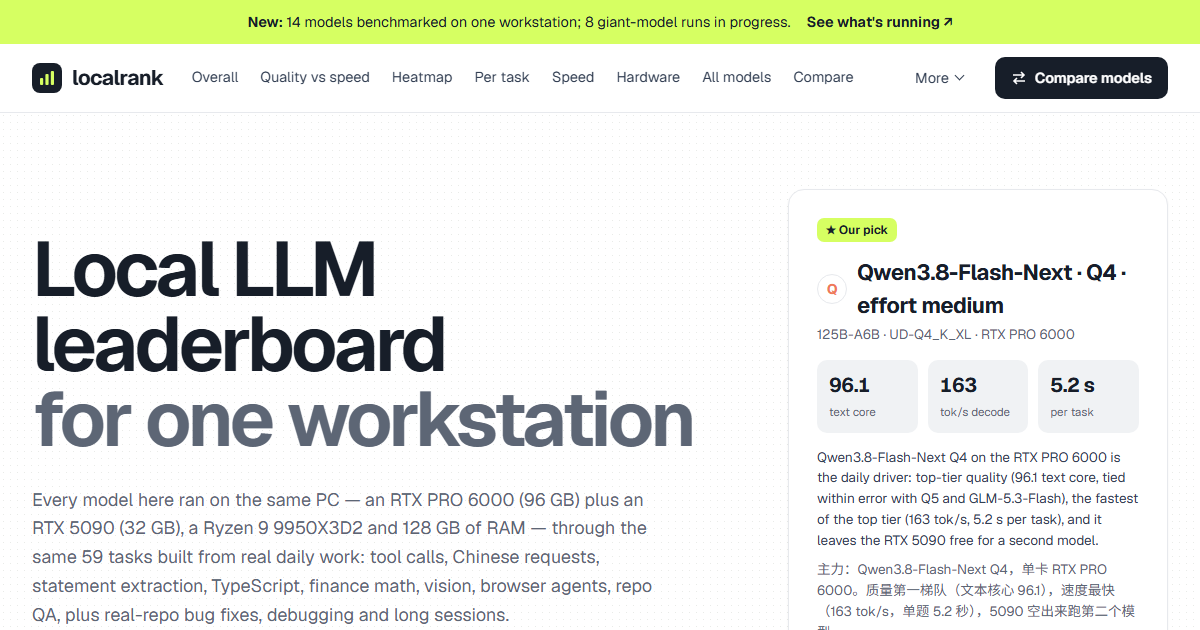
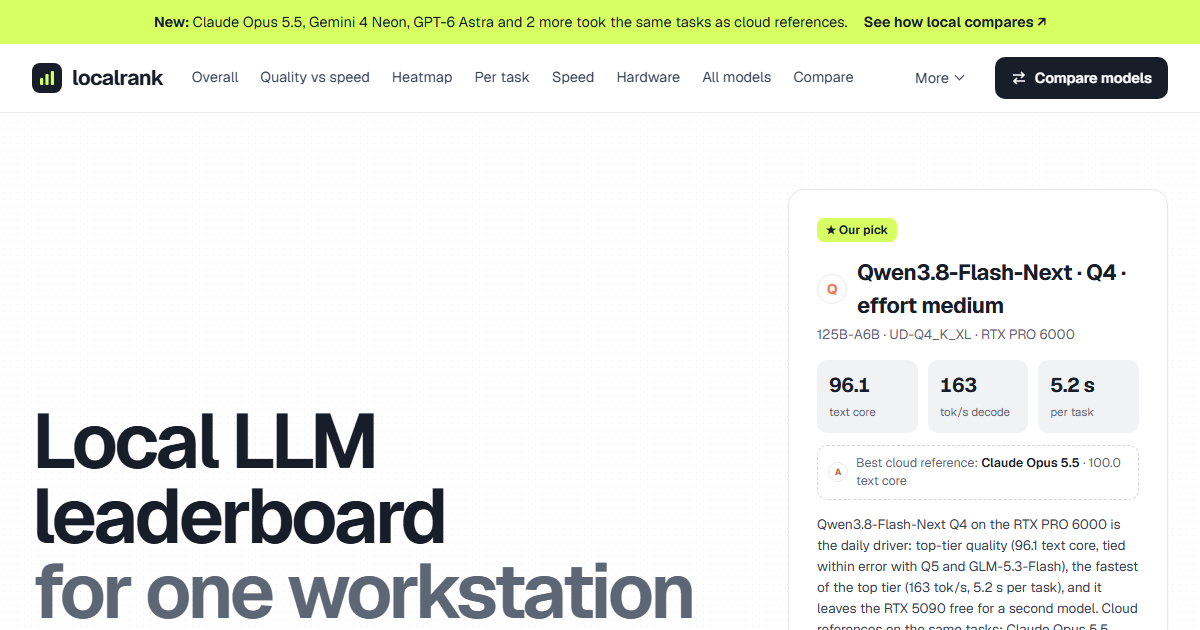
Keep chart labels readable over the cloud-reference lines
Bar value labels get white knockouts and the reference lines are lighter; the announcement and the hero name the references without their variant.

Changed region(s): [[0.0308, 0.3619, 0.5858, 0.9952], [0.6783, 0.6937, 0.9558, 1.0], [0.1233, 0.0302, 0.8633, 0.0603]]

diff --git a/src/sections/overall.css b/src/sections/overall.css
@@ -37,8 +37,9 @@
 .ov-badge.ov-badge-out circle { stroke: var(--line); }
 .ov-badge text { font-weight: 760; letter-spacing: -.04em; }
 .ov-vtext { font-weight: 620; fill: var(--ink-2); font-variant-numeric: tabular-nums;
-  paint-order: stroke; stroke: #fff; stroke-width: 3px; stroke-linejoin: round; }
+  paint-order: stroke; stroke: #fff; stroke-width: 4px; stroke-linejoin: round; }
 .ov-vtext.ov-vrec { font-weight: 700; fill: var(--ink); stroke: var(--lime); }
+.ov-knock { fill: #fff; }
 .ov-pill { fill: var(--lime); stroke: var(--lime-2); stroke-width: 1; }
 .ov-xlab { fill: var(--muted); }
 .ov-xlab.ov-xrec { fill: var(--ink); font-weight: 620; }
@@ -55,8 +56,8 @@
 .ov-hot .ov-val-ci { opacity: 0; }
 
 /* cloud reference lines (behind the bars) and their pills */
-.ov-refline { fill: none; stroke-width: 1.5; transition: stroke-width .15s ease, opacity .15s ease; }
-.ov-refline.ov-ref-hot { stroke-width: 2.25; }
+.ov-refline { fill: none; stroke-width: 1.5; opacity: .6; transition: stroke-width .15s ease, opacity .15s ease; }
+.ov-refline.ov-ref-hot { stroke-width: 2.25; opacity: 1; }
 .ov-refhit { fill: none; stroke: transparent; stroke-width: 10; }
 .ov-refpill { outline: none; transition: opacity .15s ease; }
 .ov-refpill rect { fill: #fff; stroke-width: 1; stroke-opacity: .55; transition: stroke-opacity .15s ease; }
@@ -66,7 +67,8 @@
 .ov-refname { fill: var(--ink-2); font-weight: 500; }
 .ov-refsep { fill: var(--faint); }
 .ov-refval { fill: var(--ink); font-weight: 650; font-variant-numeric: tabular-nums; }
-.ov-refdim .ov-refline:not(.ov-ref-hot), .ov-refdim .ov-refpill:not(.ov-ref-hot) { opacity: .3; }
+.ov-refdim .ov-refline:not(.ov-ref-hot) { opacity: .2; }
+.ov-refdim .ov-refpill:not(.ov-ref-hot) { opacity: .3; }
 
 /* first-render animation: bars grow up from the baseline, badges and values fade in */
 .ov-rise { transform-box: fill-box; transform-origin: 50% 100%; transition: transform .85s cubic-bezier(.2, .75, .2, 1); }

diff --git a/src/base.js b/src/base.js
@@ -221,8 +221,11 @@
       const inProg = D.models.filter((m) => m.status && m.status !== "done").length;
       ann.className = "lb-announce";
       if (refs.length) {
-        const names = refs.map((m) => fullName(m));
-        const list = names.length > 1 ? names.slice(0, -1).join(", ") + " and " + names[names.length - 1] : names[0];
+        const names = refs.map((m) => m.name);
+        const shown = names.length > 3 ? names.slice(0, 3) : names;
+        const more = names.length - shown.length;
+        const list = more ? `${shown.join(", ")} and ${more} more` :
+          (shown.length > 1 ? shown.slice(0, -1).join(", ") + " and " + shown[shown.length - 1] : shown[0]);
         ann.append(h("b", {}, "New: "), `${list} took the same tasks as cloud references.`,
           h("a", { href: "#overall" }, "See how local compares ↗"));
       } else {
@@ -287,7 +290,7 @@
           h("div", {}, h("b", {}, fmt.tps(pick.speed && pick.speed.decode)), h("span", {}, "tok/s decode")),
           h("div", {}, h("b", {}, fmt.num(pick.speed && pick.speed.taskTime, 1) + " s"), h("span", {}, "per task"))),
         refs.length ? h("div", { class: "lb-pick-ref" }, mono(refs[0], 20), h("span", {}, "Best cloud reference: ",
-          h("b", {}, fullName(refs[0])), ` · ${fmt.pct(refs[0].scores.textCore)} text core`)) : null,
+          h("b", {}, refs[0].name), ` · ${fmt.pct(refs[0].scores.textCore)} text core`)) : null,
         h("p", {}, D.verdict.en), h("p", { class: "zh", lang: "zh" }, D.verdict.zh)) : null);
     const main = document.getElementById("lb-main");
     main.before(hero);

diff --git a/src/sections/overall.js b/src/sections/overall.js
@@ -264,14 +264,18 @@
         s("circle", { cx, cy: by, r: badgeR }),
         s("text", { x: cx, y: by, dy: "0.35em", "text-anchor": "middle", fill: ven.color,
           "font-size": (letter.length > 1 ? badgeR * 0.78 : badgeR * 0.98).toFixed(1) }, letter)));
-      // value label (lime pill for our pick)
+      // value label (lime pill for our pick), on a white knockout so reference lines never run through it
       const vy = (inside ? y : by - badgeR) - 8;
       zoneTop[i] = vy - fsV - 4;
       const vtxt = (m.recommended ? "★ " : "") + fmt.num(v, 1);
       const val = s("g", { class: ["ov-val", hasCI && "ov-val-ci"] });
       if (m.recommended) {
-        const pw = textW(vtxt, fsV, 700) + 14;
-        val.append(s("rect", { class: "ov-pill", x: cx - pw / 2, y: vy - fsV - 2.5, width: pw, height: fsV + 8, rx: 6 }));
+        const pw = textW(vtxt, fsV, 700) + 14, ph = fsV + 8, py = vy - fsV - 2.5;
+        val.append(s("rect", { class: "ov-knock", x: cx - pw / 2 - 2.5, y: py - 2.5, width: pw + 5, height: ph + 5, rx: 8.5 }),
+          s("rect", { class: "ov-pill", x: cx - pw / 2, y: py, width: pw, height: ph, rx: 6 }));
+      } else {
+        const kw = textW(vtxt, fsV, 620) + 8, kt = vy - fsV * 0.8 - 3;
+        val.append(s("rect", { class: "ov-knock", x: cx - kw / 2, y: kt, width: kw, height: vy + 3.5 - kt, rx: 4 }));
       }
       val.append(s("text", { class: ["ov-vtext", m.recommended && "ov-vrec"], x: cx, y: vy, "text-anchor": "middle",
         "font-size": fsV }, vtxt));
